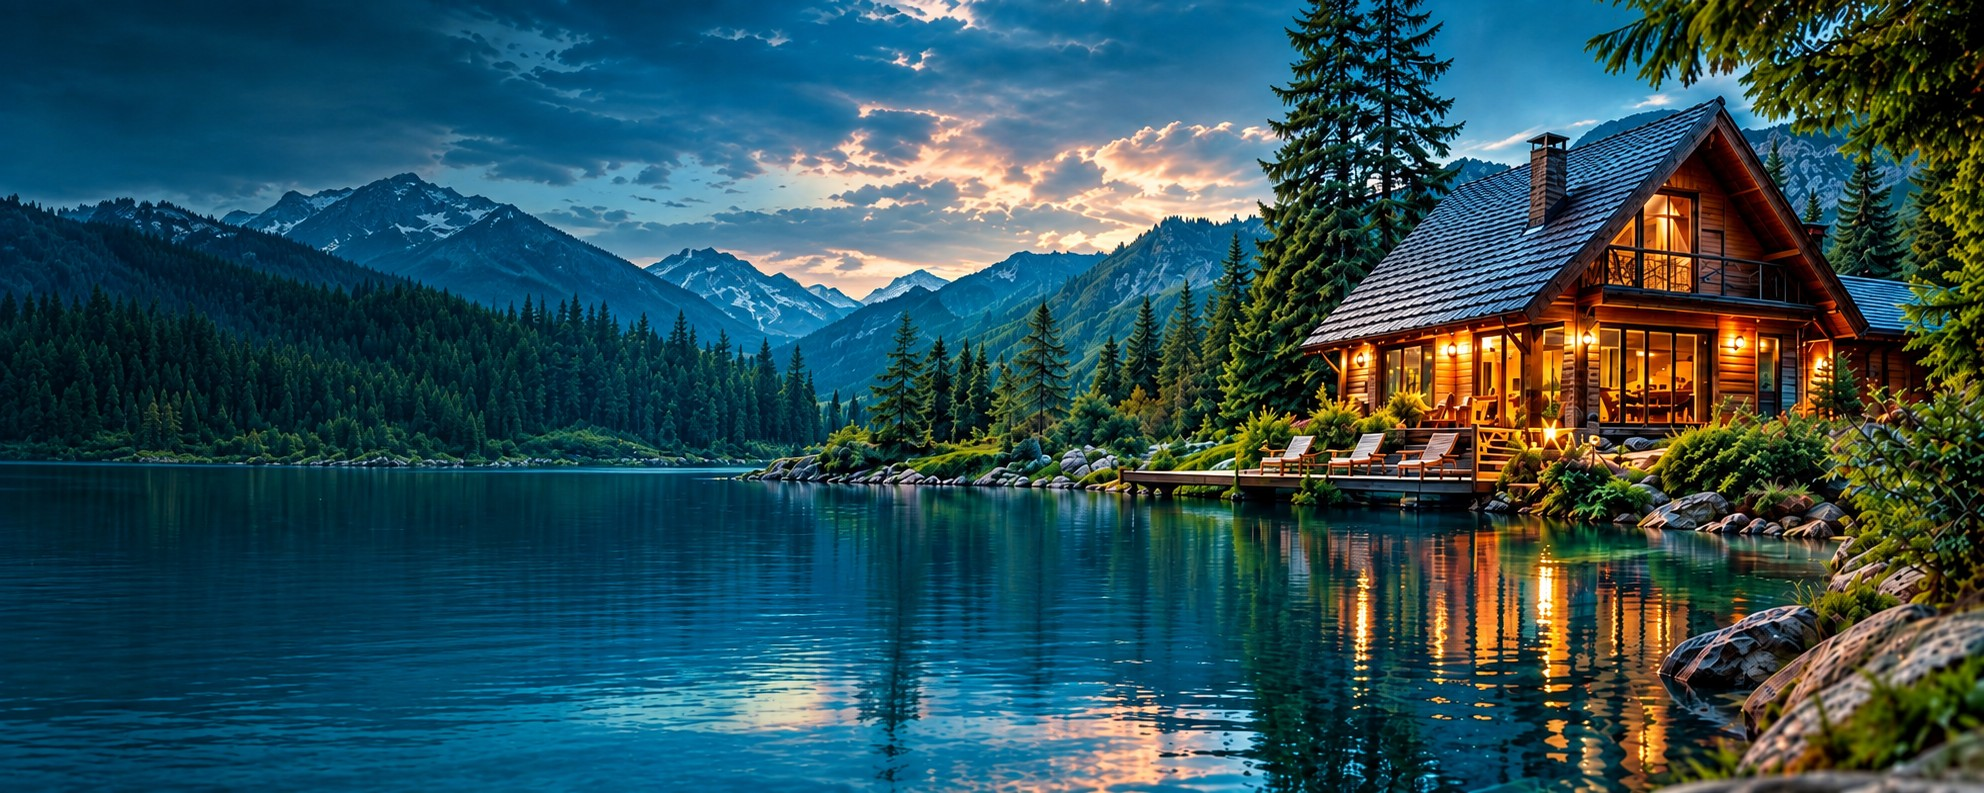
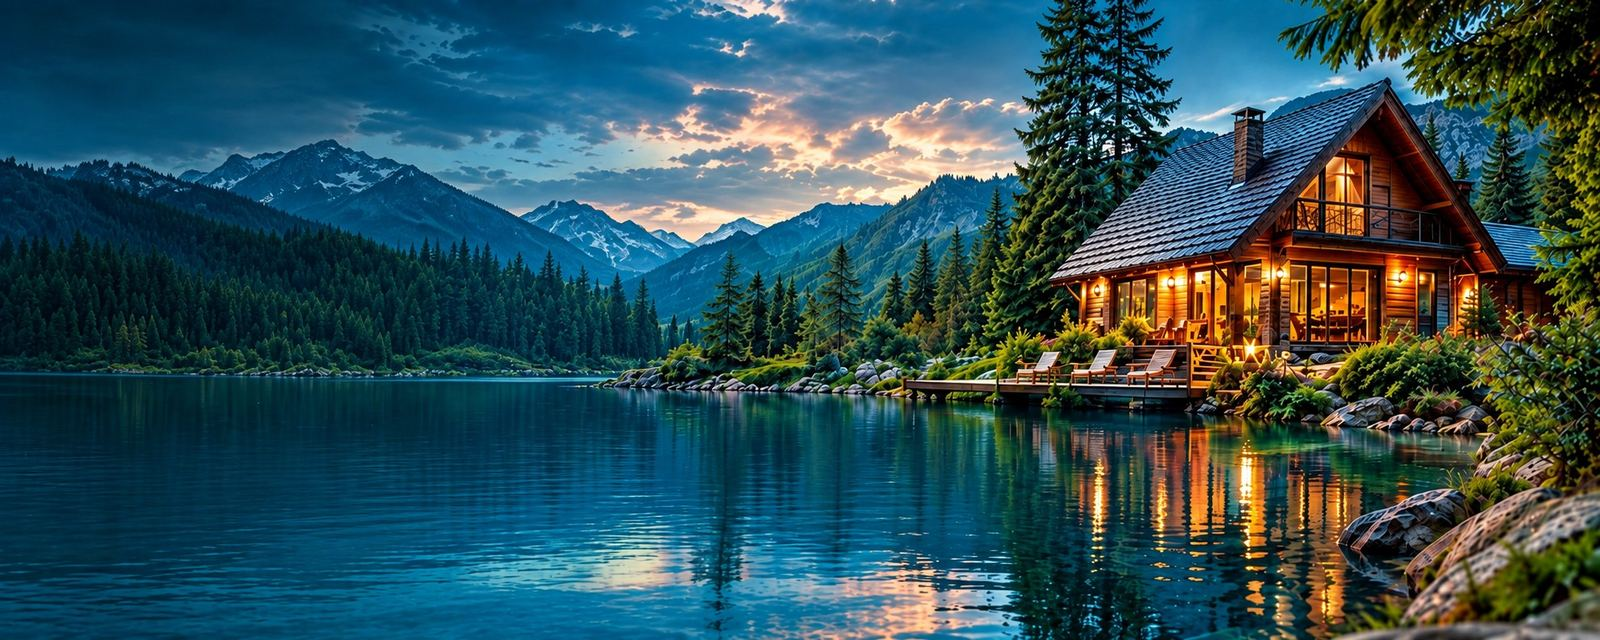
Add files via upload

diff --git a/index.html b/index.html
@@ -11,7 +11,7 @@
 <meta property="og:site_name" content="SKLOPI">
 <meta property="og:title" content="SKLOPI — sastavi putni paket, jedna cena">
 <meta property="og:description" content="Let, hotel, auto i aktivnosti — sve sabrano u jedan putni paket i jednu cenu. Napravi svoj aranžman za par minuta.">
-<meta property="og:image" content="https://sklopi.rs/hero-photo.jpg?v=2">
+<meta property="og:image" content="https://sklopi.rs/hero-photo.jpg?v=3">
 <meta property="og:locale" content="sr_RS">
 <meta property="og:url" content="https://sklopi.rs/">
 <link rel="canonical" href="https://sklopi.rs/">
@@ -26,7 +26,7 @@
 "alternateName": "SKLOPI",
 "description": "SKLOPI sastavlja putni paket od leta, hotela, rentakara i aktivnosti i sabira sve u jednu procenjenu cenu.",
 "url": "https://sklopi.rs/",
-"image": "https://sklopi.rs/hero-photo.jpg?v=2",
+"image": "https://sklopi.rs/hero-photo.jpg?v=3",
 "areaServed": "RS",
 "makesOffer": {
 "@type": "Offer",
@@ -117,7 +117,7 @@
 <meta name="twitter:card" content="summary_large_image">
 <meta name="twitter:title" content="SKLOPI — sastavi putni paket, jedna cena">
 <meta name="twitter:description" content="Let, hotel, auto i aktivnosti — sve sabrano u jedan putni paket i jednu cenu.">
-<meta name="twitter:image" content="https://sklopi.rs/hero-photo.jpg?v=2">
+<meta name="twitter:image" content="https://sklopi.rs/hero-photo.jpg?v=3">
 <!-- Favicon -->
 <link rel="icon" type="image/svg+xml" href="favicon.svg">
 <link rel="icon" type="image/png" sizes="32x32" href="favicon-32.png">
@@ -160,7 +160,7 @@ SKLOPI<em>.</em>
 <div class="hero hero-reference" id="searchForm-wrap">
 <div class="hero-reference-shell">
   <div class="hero-reference-visual">
-    <img src="https://images.unsplash.com/photo-1533104816931-20fa691ff6ca?auto=format&fit=crop&w=1800&q=88" alt="Mediteranska obala i grad uz more" loading="eager" data-i18n-alt="x_9ec990">
+    <img src="hero-santorini.jpg" alt="Mediteranska obala i grad uz more" loading="eager" data-i18n-alt="x_9ec990">
     <div class="hero-reference-visual-overlay"></div>
     <div class="hero-reference-copy">
       <p class="hero-reference-eyebrow" data-i18n="x_9bd979">PUTOVANJE PO TVOM UKUSU</p>

diff --git a/destinacija.html b/destinacija.html
@@ -13,13 +13,13 @@
 <meta property="og:site_name" content="SKLOPI">
 <meta property="og:title" content="Destinacija — SKLOPI">
 <meta property="og:description" content="Letovi, smeštaj, rentakar i aktivnosti za tvoju destinaciju — sve na jednom mestu, sa procenjenom ukupnom cenom.">
-<meta property="og:image" content="https://sklopi.rs/hero-photo.jpg?v=2">
+<meta property="og:image" content="https://sklopi.rs/hero-photo.jpg?v=3">
 <meta property="og:locale" content="sr_RS">
 <meta property="og:url" content="https://sklopi.rs/destinacija.html">
 <meta name="twitter:card" content="summary_large_image">
 <meta name="twitter:title" content="Destinacija — SKLOPI">
 <meta name="twitter:description" content="Letovi, smeštaj, rentakar i aktivnosti za tvoju destinaciju — sve na jednom mestu, sa procenjenom ukupnom cenom.">
-<meta name="twitter:image" content="https://sklopi.rs/hero-photo.jpg?v=2">
+<meta name="twitter:image" content="https://sklopi.rs/hero-photo.jpg?v=3">
 <link rel="icon" type="image/svg+xml" href="favicon.svg">
 <link rel="preconnect" href="https://images.unsplash.com">
 <link rel="preconnect" href="https://fonts.googleapis.com">

diff --git a/vodic-atina.html b/vodic-atina.html
@@ -10,7 +10,7 @@
 <meta property="og:site_name" content="SKLOPI">
 <meta property="og:title" content="Vodič za Atinu — kad ići, aerodrom, šta obavezno vidi">
 <meta property="og:description" content="Kad je najbolje ići u Atinu, put od aerodroma do centra, šta obavezno vidi za kratak izlet i na šta da paziš pre rezervacije.">
-<meta property="og:image" content="https://sklopi.rs/hero-photo.jpg?v=2">
+<meta property="og:image" content="https://sklopi.rs/hero-photo.jpg?v=3">
 <meta property="og:locale" content="sr_RS">
 <meta property="og:url" content="https://sklopi.rs/vodic-atina.html">
 <script type="application/ld+json">
@@ -22,7 +22,7 @@
   "@id": "https://sklopi.rs/vodic-atina.html#article",
   "headline": "Vodič za Atinu — kad ići, aerodrom, šta obavezno vidi",
   "url": "https://sklopi.rs/vodic-atina.html",
-  "image": "https://sklopi.rs/hero-photo.jpg?v=2",
+  "image": "https://sklopi.rs/hero-photo.jpg?v=3",
   "inLanguage": "sr",
   "publisher": {"@id": "https://sklopi.rs/#organization"},
   "isPartOf": {"@id": "https://sklopi.rs/#website"}

diff --git a/vodici.html b/vodici.html
@@ -10,7 +10,7 @@
 <meta property="og:site_name" content="SKLOPI">
 <meta property="og:title" content="Vodiči po destinacijama — SKLOPI">
 <meta property="og:description" content="Praktični vodiči po destinacijama: kad ići, kako do centra sa aerodroma, šta obavezno vidi i na šta da paziš pre nego što rezervišeš izlet.">
-<meta property="og:image" content="https://sklopi.rs/hero-photo.jpg?v=2">
+<meta property="og:image" content="https://sklopi.rs/hero-photo.jpg?v=3">
 <meta property="og:locale" content="sr_RS">
 <meta property="og:url" content="https://sklopi.rs/vodici.html">
 <script type="application/ld+json">
